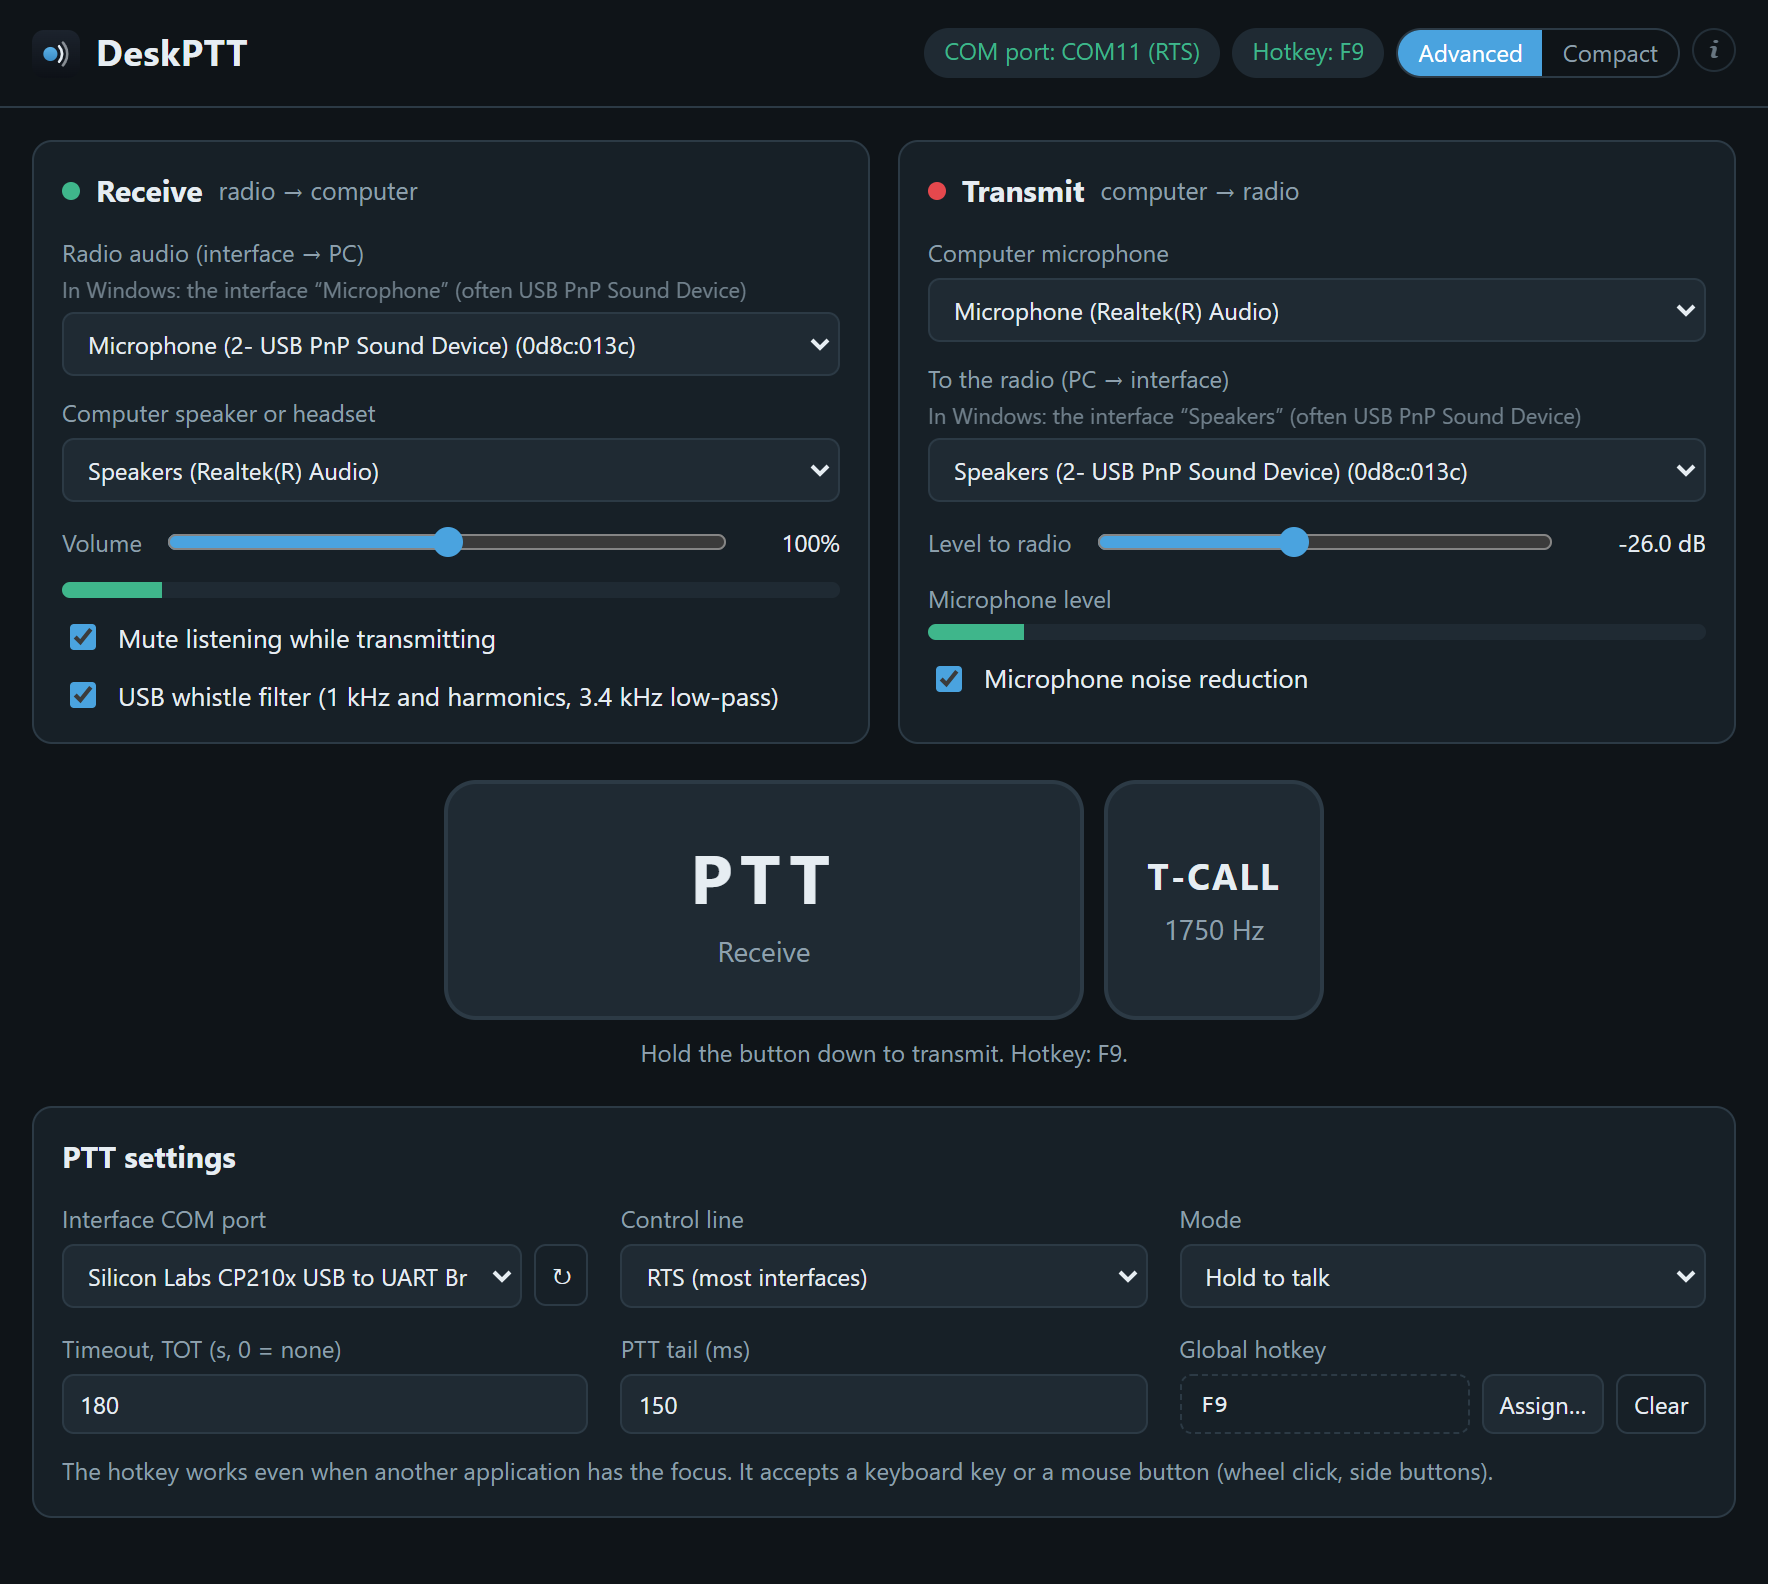
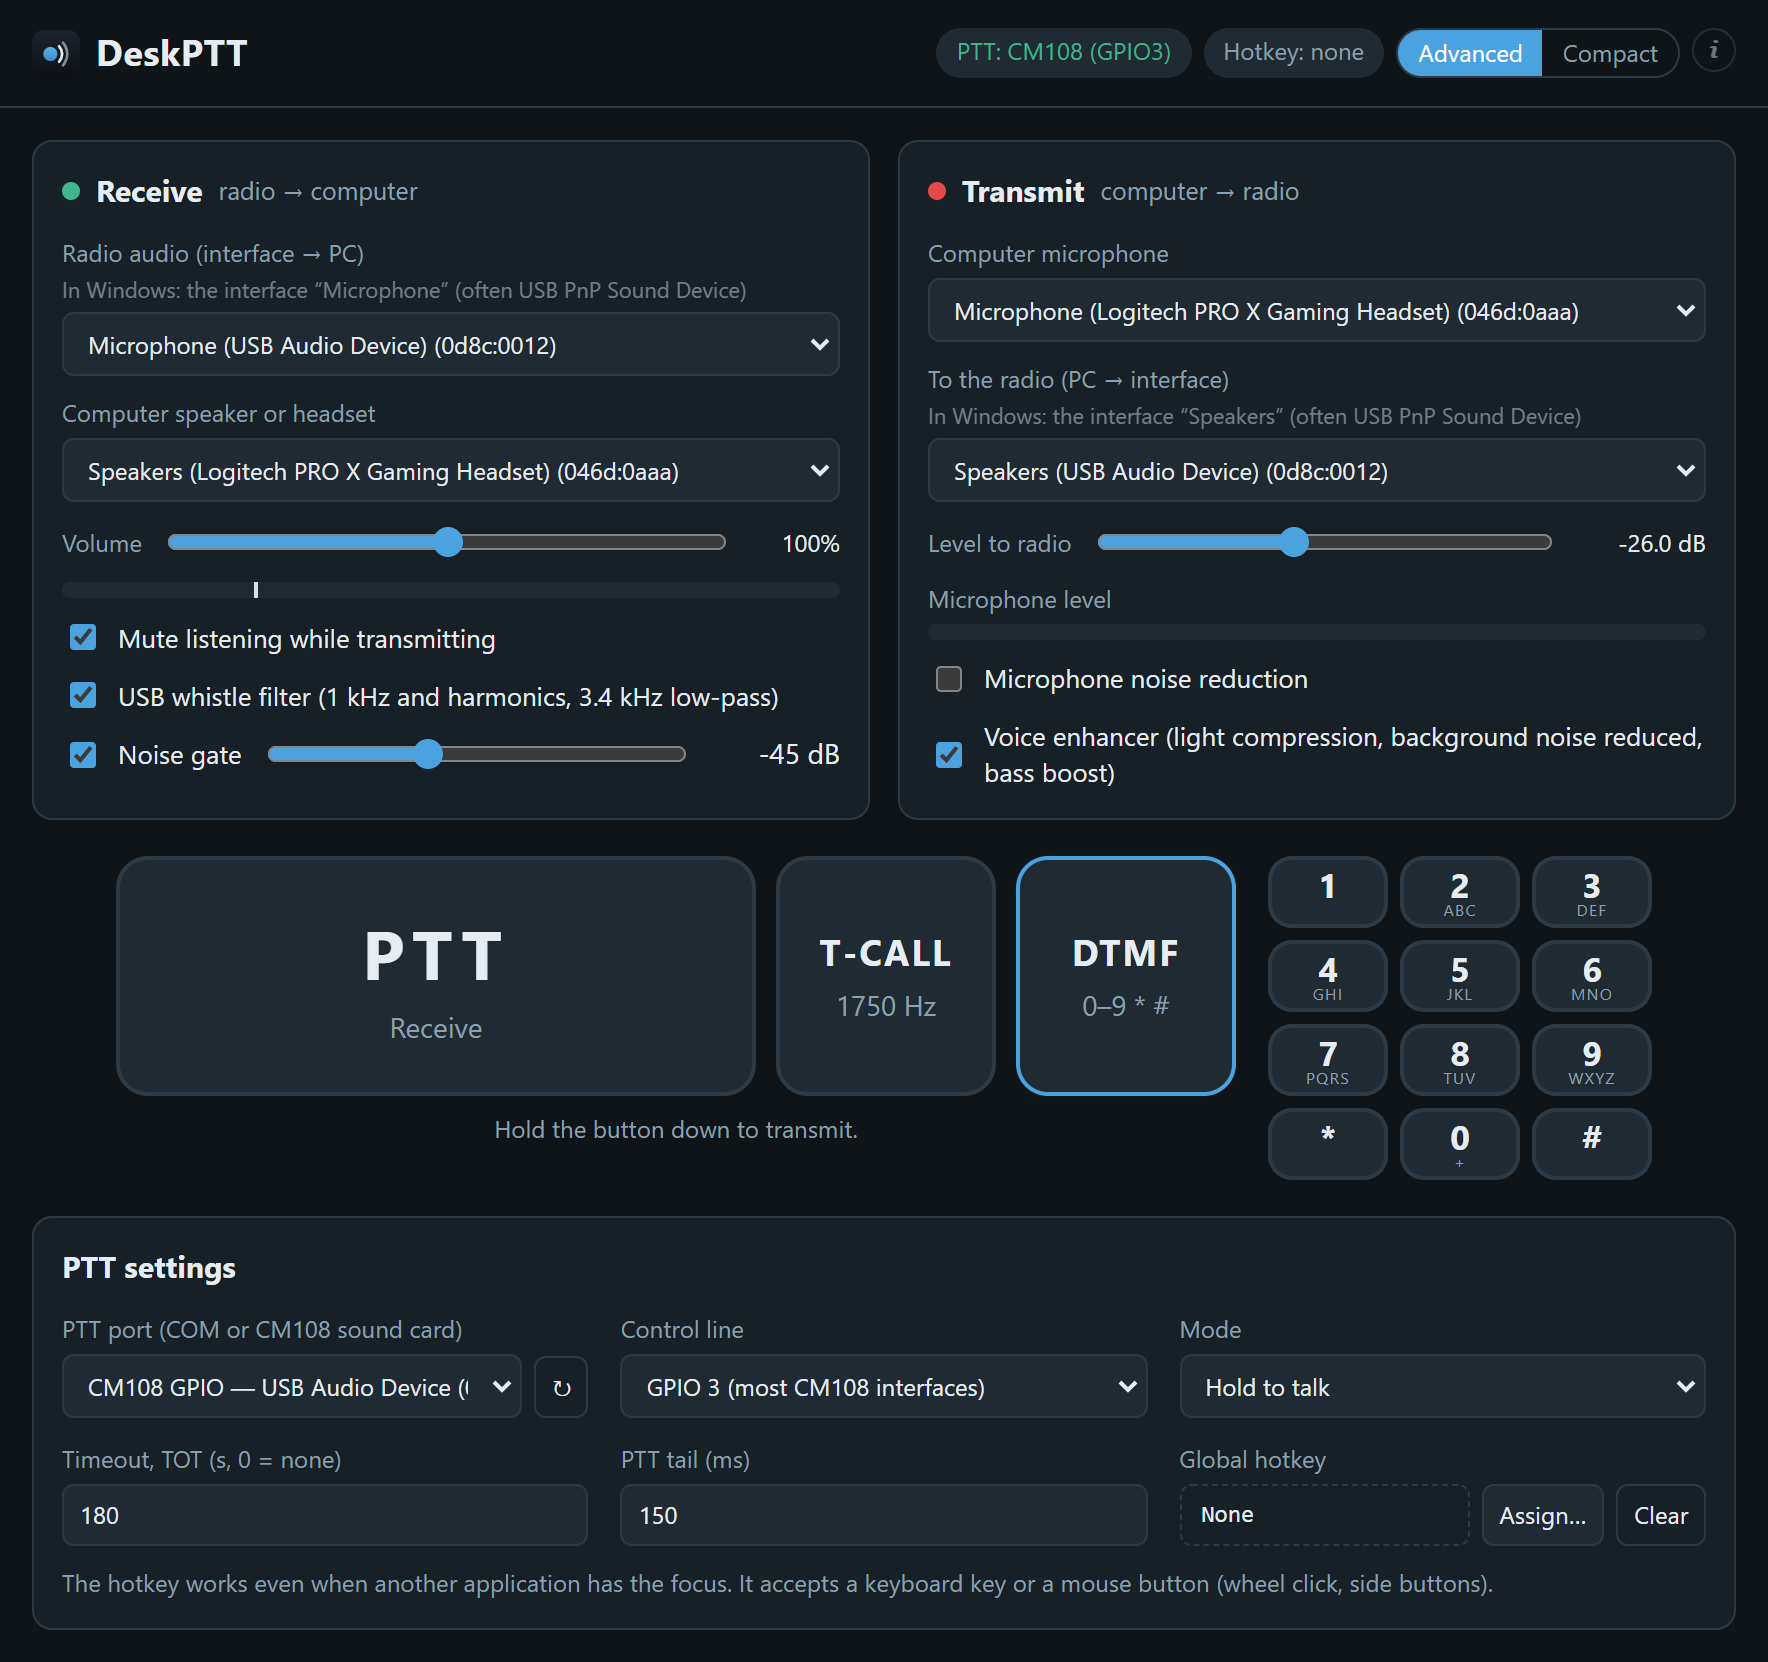
Website: screenshots for 1.3.0 (DTMF keypad, noise gate, voice enhancer)

Changed region(s): [[0.0, 0.0, 0.9955, 0.7115], [0.0311, 0.7115, 0.9644, 0.959], [0.9333, 0.1856, 0.9644, 0.2165]]

diff --git a/site/fr/index.html b/site/fr/index.html
@@ -51,7 +51,7 @@
             <a href="https://github.com/f4izc/DeskPTT/releases">toutes les versions</a></p>
         </div>
         <figure class="hero-shot">
-          <img src="../img/compact.png" width="460" height="313" alt="Vue compacte de DeskPTT : résumé réception et émission, grand bouton PTT et bouton T-CALL">
+          <img src="../img/compact.png" width="460" height="280" alt="Vue compacte de DeskPTT : résumé réception et émission, grand bouton PTT, boutons T-CALL et DTMF">
         </figure>
       </div>
     </section>
@@ -100,8 +100,8 @@
         </div>
 
         <figure class="shot-big">
-          <img src="../img/advanced.png" width="884" height="829" loading="lazy" alt="Vue avancée de DeskPTT : choix des périphériques de réception et d'émission, volume et niveau, boutons PTT et T-CALL, réglages PTT">
-          <figcaption>Vue avancée (ici en anglais) : choix de chaque périphérique, niveaux, ligne PTT, mode, TOT, traîne et raccourci.</figcaption>
+          <img src="../img/advanced.png" width="884" height="831" loading="lazy" alt="Vue avancée de DeskPTT : choix des périphériques de réception et d'émission, volume, porte de bruit, niveau et amélioration de la voix, boutons PTT, T-CALL et DTMF avec le pavé DTMF ouvert, réglages PTT">
+          <figcaption>Vue avancée (ici en anglais) : choix de chaque périphérique, niveaux, porte de bruit, amélioration de la voix, ligne PTT, mode, TOT, traîne et raccourci. Pavé DTMF ouvert à droite.</figcaption>
         </figure>
       </div>
     </section>

diff --git a/site/index.html b/site/index.html
@@ -50,7 +50,7 @@
             <a href="https://github.com/f4izc/DeskPTT/releases">all releases</a></p>
         </div>
         <figure class="hero-shot">
-          <img src="img/compact.png" width="460" height="313" alt="DeskPTT compact view: receive and transmit summary, large PTT button and T-CALL button">
+          <img src="img/compact.png" width="460" height="280" alt="DeskPTT compact view: receive and transmit summary, large PTT button, T-CALL and DTMF buttons">
         </figure>
       </div>
     </section>
@@ -97,8 +97,8 @@
         </div>
 
         <figure class="shot-big">
-          <img src="img/advanced.png" width="884" height="829" loading="lazy" alt="DeskPTT advanced view: receive and transmit device selection, volume and level, PTT and T-CALL buttons, PTT settings">
-          <figcaption>Advanced view: pick every device, set levels, PTT line, mode, TOT, tail and hotkey.</figcaption>
+          <img src="img/advanced.png" width="884" height="831" loading="lazy" alt="DeskPTT advanced view: receive and transmit device selection, volume, noise gate, level and voice enhancer, PTT, T-CALL and DTMF buttons with the DTMF keypad open, PTT settings">
+          <figcaption>Advanced view: pick every device, set levels, noise gate, voice enhancer, PTT line, mode, TOT, tail and hotkey. DTMF keypad open on the right.</figcaption>
         </figure>
       </div>
     </section>
